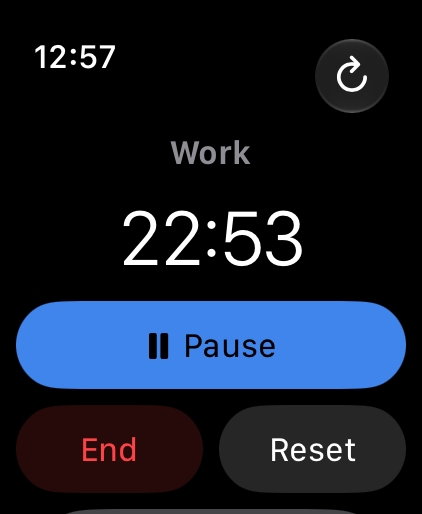
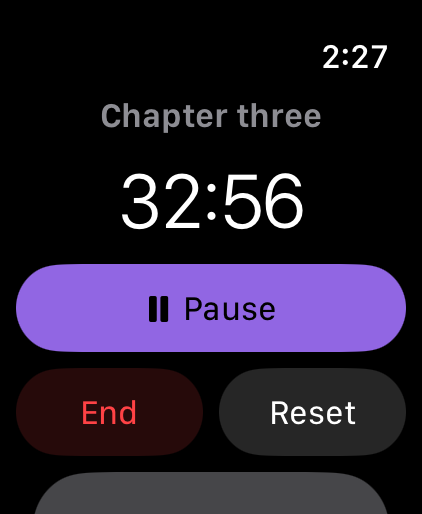
Redesign the README image in Caslon with stopwatch, Mac and Watch widget

diff --git a/docs/gallery/gallery.css b/docs/gallery/gallery.css
@@ -1,27 +1,35 @@
+:root { --serif: "Libre Caslon Text"; --serif-weight: 700; }
 * { box-sizing: border-box; }
 html, body { margin: 0; padding: 0; }
-body { font-family: "Inter", sans-serif; color: #f5f7fa; background: #080d15; -webkit-font-smoothing: antialiased; }
-.canvas { width: 1440px; height: 1100px; position: relative; overflow: hidden; background: radial-gradient(ellipse at 30% 8%, #18324b 0, transparent 57%), radial-gradient(ellipse at 95% 100%, #0a3439 0, transparent 54%), #0a1019; }
-header { position: absolute; left: 64px; right: 64px; top: 49px; display: flex; align-items: center; justify-content: space-between; }
-.brand { display: flex; align-items: center; gap: 14px; font-size: 24px; font-weight: 600; letter-spacing: -.5px; }
-.brand-mark { width: 44px; height: 44px; border-radius: 10px; box-shadow: 0 0 0 1px #ffffff24, 0 6px 16px #0006; }
-header p { color: #9cb0c7; font-size: 17px; font-weight: 500; letter-spacing: -.1px; margin: 0; }
-section { position: absolute; top: 139px; }
-.timer { left: 64px; }
-.activity { left: 506px; }
-.wrist { left: 970px; width: 345px; top: 196px; }
-h1, h2 { font-family: "Instrument Serif", serif; font-size: 36px; font-weight: 400; line-height: 1; letter-spacing: -.3px; margin: 0 0 24px; }
-em { font-style: italic; color: #b9d4f2; }
-.wrist h2 { font-size: 50px; letter-spacing: -.6px; margin-bottom: 16px; }
-.wrist p { color: #a9bed3; font-size: 20px; line-height: 1.5; letter-spacing: -.2px; margin: 0 0 30px; }
-.phone { position: relative; width: 370px; padding: 8px; background: linear-gradient(135deg, #748092, #252d39 24%, #0c1017 65%, #566175); border-radius: 53px; box-shadow: inset 0 0 0 1px #aeb8c257, 0 24px 60px #0006; }
-.phone::after { content: ""; width: 4px; height: 60px; background: linear-gradient(#566175,#1a222d); position: absolute; right: -3px; top: 151px; border-radius: 0 3px 3px 0; }
-.phone img { width: 100%; display: block; border-radius: 45px; border: 2px solid #05080c; }
-.watch { position: relative; width: 318px; padding: 10px; border-radius: 75px; background: linear-gradient(135deg, #8d9298 0, #3a3e46 12%, #12161d 42%, #313740 76%, #777e86); box-shadow: inset 0 0 0 1px #d9e2ed57, 0 22px 45px #0007; }
-.watch::before { content: ""; position: absolute; right: -12px; top: 80px; width: 15px; height: 48px; background: repeating-linear-gradient(0deg,#414752 0 2px,#727a86 2px 3px); border: 2px solid #3f4651; border-radius: 8px; }
-.watch::after { content: ""; position: absolute; right: -3px; top: 173px; width: 4px; height: 59px; border-radius: 3px; background: linear-gradient(#666f7c,#202733); }
-.watch img { display: block; position: relative; width: 100%; border-radius: 65px; border: 2px solid #030507; background: #000; }
-.live { margin-top: 30px; width: 345px; }
-.live img { display: block; width: 100%; border-radius: 26px; box-shadow: 0 0 0 1px #aeb8c240, 0 18px 40px #0007; }
-.note { color: #a9bed3; font-size: 18px; line-height: 1.55; letter-spacing: -.15px; margin-top: 28px; }
-footer { position: absolute; bottom: 42px; left: 64px; font-size: 14px; letter-spacing: .1px; color: #7d93aa; }
+body { font-family: var(--serif), serif; color: #f5f7fa; background: #080d15; -webkit-font-smoothing: antialiased; }
+.canvas { width: 1600px; height: 1100px; position: relative; overflow: hidden; background: radial-gradient(ellipse at 28% 6%, #18324b 0, transparent 55%), radial-gradient(ellipse at 96% 100%, #0a3439 0, transparent 52%), radial-gradient(ellipse at 70% 40%, #1c1736 0, transparent 45%), #0a1019; }
+header { position: absolute; left: 64px; right: 64px; top: 46px; display: flex; align-items: center; justify-content: space-between; }
+.brand { display: flex; align-items: center; gap: 12px; font-size: 15px; font-weight: 400; letter-spacing: .22em; text-transform: uppercase; color: #d9e3ef; }
+.brand-mark { width: 30px; height: 30px; border-radius: 7px; box-shadow: 0 0 0 1px #ffffff24, 0 4px 12px #0006; }
+header p { color: #8ea3bb; font-size: 13px; font-weight: 400; letter-spacing: .22em; text-transform: uppercase; margin: 0; }
+h1, h2 { font-size: 33px; font-weight: var(--serif-weight); line-height: 1; letter-spacing: -.4px; margin: 0 0 22px; }
+section { position: absolute; top: 136px; }
+.col { width: 380px; }
+.first { left: 64px; }
+.second { left: 480px; }
+.side { left: 900px; width: 636px; }
+.phone { position: relative; width: 356px; padding: 8px; background: linear-gradient(135deg, #748092, #252d39 24%, #0c1017 65%, #566175); border-radius: 52px; box-shadow: inset 0 0 0 1px #aeb8c257, 0 24px 60px #0006; }
+.phone::after { content: ""; width: 4px; height: 58px; background: linear-gradient(#566175,#1a222d); position: absolute; right: -3px; top: 146px; border-radius: 0 3px 3px 0; }
+.phone img { width: 100%; display: block; border-radius: 44px; border: 2px solid #05080c; }
+.desk { position: relative; height: 438px; border-radius: 18px; overflow: hidden; background: radial-gradient(ellipse at 80% 0%, #2a3c58 0, transparent 60%), linear-gradient(160deg, #1a2333, #0f141e 70%); box-shadow: inset 0 0 0 1px #ffffff14, 0 24px 60px #0006; }
+.menubar { font-family: -apple-system, "SF Pro Text", "Inter", sans-serif; height: 32px; display: flex; justify-content: flex-end; align-items: center; gap: 4px; padding: 0 14px; background: #0b0f17cc; backdrop-filter: blur(20px); border-bottom: 1px solid #ffffff12; font-size: 13.5px; font-weight: 500; color: #e9eef5; }
+.item { display: inline-flex; align-items: center; gap: 6px; height: 24px; padding: 0 8px; border-radius: 6px; }
+.item.active { background: #ffffff26; }
+.item svg { width: 16px; height: 16px; fill: none; stroke: #e9eef5; stroke-width: 1.4; stroke-linecap: round; }
+.item svg[viewBox="0 0 22 12"] { width: 22px; height: 12px; }
+.item svg .fill { fill: #e9eef5; stroke: none; }
+.item b { font-weight: 600; font-variant-numeric: tabular-nums; }
+.clock { padding-left: 6px; }
+.mac-panel { position: absolute; top: 40px; right: 128px; width: 340px; }
+.mac-panel img { display: block; width: 100%; border-radius: 16px; box-shadow: 0 0 0 1px #ffffff1f, 0 22px 50px #000a; }
+.wrist { margin-top: 38px; }
+.watches { display: flex; gap: 34px; }
+.watch { position: relative; width: 236px; padding: 9px; border-radius: 58px; background: linear-gradient(135deg, #8d9298 0, #3a3e46 12%, #12161d 42%, #313740 76%, #777e86); box-shadow: inset 0 0 0 1px #d9e2ed57, 0 22px 45px #0007; }
+.watch::before { content: ""; position: absolute; right: -10px; top: 62px; width: 12px; height: 40px; background: repeating-linear-gradient(0deg,#414752 0 2px,#727a86 2px 3px); border: 2px solid #3f4651; border-radius: 7px; }
+.watch img { display: block; width: 100%; border-radius: 50px; border: 2px solid #030507; background: #000; }
+footer { position: absolute; bottom: 38px; left: 64px; font-size: 16px; font-weight: 400; color: #7d93aa; }

diff --git a/docs/gallery/overview.html b/docs/gallery/overview.html
@@ -3,19 +3,35 @@
 <head>
   <meta charset="utf-8">
   <meta name="viewport" content="width=device-width,initial-scale=1">
-  <title>SimpleTimer: timer, activity and Apple Watch</title>
+  <title>SimpleTimer: iPhone, Apple Watch and Mac</title>
   <link rel="preconnect" href="https://fonts.googleapis.com">
   <link rel="preconnect" href="https://fonts.gstatic.com" crossorigin>
-  <link rel="stylesheet" href="https://fonts.googleapis.com/css2?family=Instrument+Serif:ital@0;1&family=Inter:wght@400;500;600&display=block">
+  <link rel="stylesheet" href="https://fonts.googleapis.com/css2?family=Libre+Caslon+Text:wght@400;700&display=block">
   <link rel="stylesheet" href="gallery.css">
 </head>
 <body>
 <main class="canvas">
-  <header><div class="brand"><img class="brand-mark" src="../../App/Assets.xcassets/AppIcon.appiconset/AppIcon-Dark.png" alt="">SimpleTimer</div><p>iPhone + Apple Watch</p></header>
-  <section class="timer"><h1>A little more <em>focus.</em></h1><div class="phone"><img src="../release-images/dashboard-running.png" alt="Running Work timer with a large Pause button between round End and Reset buttons"></div></section>
-  <section class="activity"><h2>A <em>clearer</em> picture.</h2><div class="phone"><img src="../release-images/activity.png" alt="Sample Activity week with 20 hours 15 minutes, 56 sessions, 91 percent completed and a 17 day streak"></div></section>
-  <section class="wrist"><h2>Within <em>reach.</em></h2><p>Control your iPhone timer from<br>your wrist or Lock Screen.</p><div class="watch"><img src="../release-images/watch.png" alt="Apple Watch Work timer with Pause, End and Reset controls"></div><div class="live"><img src="../release-images/live-activity.png" alt="Paused Work Live Activity with Resume, End and Reset controls"></div><div class="note">One timer. One history.<br>No account required.</div></section>
-  <footer>Real simulator screens · Sample data · Decorative device frames</footer>
+  <header><div class="brand"><img class="brand-mark" src="../../App/Assets.xcassets/AppIcon.appiconset/AppIcon-Dark.png" alt="">SimpleTimer</div><p>iPhone · Apple Watch · Mac</p></header>
+  <section class="col first"><h1>Time it, or let it run.</h1><div class="phone"><img src="../release-images/stopwatch.png" alt="Stopwatch mode on iPhone: a Deep Work session named Chapter three, 32 minutes in"></div></section>
+  <section class="col second"><h2>A clearer picture.</h2><div class="phone"><img src="../release-images/activity.png" alt="Sample Activity week with 20 hours 15 minutes, 56 sessions, 91 percent completed and a 17 day streak"></div></section>
+  <section class="side">
+    <h2>In your menu bar.</h2>
+    <div class="desk">
+      <div class="menubar" aria-hidden="true">
+        <span class="item active"><svg viewBox="0 0 16 16"><path d="M8 2.2a5.8 5.8 0 1 1-4.1 1.7M8 2.2v2.4M8 8 5.2 5.4"/></svg><b>18:42</b></span>
+        <span class="item"><svg viewBox="0 0 16 16"><path d="M2 6.2a8.6 8.6 0 0 1 12 0M4.2 8.6a5.4 5.4 0 0 1 7.6 0M6.4 11a2.3 2.3 0 0 1 3.2 0"/></svg></span>
+        <span class="item"><svg viewBox="0 0 22 12"><rect x="1" y="1.5" width="17" height="9" rx="2.5"/><rect class="fill" x="2.8" y="3.3" width="13.4" height="5.4" rx="1.2"/><path d="M20 4.6v2.8"/></svg></span>
+        <span class="item clock">Tue Nov 3&nbsp;&nbsp;9:26</span>
+      </div>
+      <div class="mac-panel"><img src="../release-images/mac-panel.png" alt="SimpleTimer for Mac: a drop-down under the menu bar with a running Work timer, its controls and session types"></div>
+    </div>
+    <h2 class="wrist">On your wrist.</h2>
+    <div class="watches">
+      <div class="watch"><img src="../release-images/watch.png" alt="Apple Watch stopwatch for Chapter three with Pause, End and Reset"></div>
+      <div class="watch"><img src="../release-images/watch-widget.png" alt="SimpleTimer widget in the Apple Watch Smart Stack showing a live Deep Work countdown"></div>
+    </div>
+  </section>
+  <footer>Real simulator and Mac screens · Sample data · Decorative frames and menu bar</footer>
 </main>
 </body>
 </html>

diff --git a/docs/GALLERY.md b/docs/GALLERY.md
@@ -1,15 +1,15 @@
 # SimpleTimer gallery
 
-One view of the experience: focus on iPhone, review your activity, and control the timer from Apple Watch or the Lock Screen.
+One view of the experience: time a session or let a stopwatch run on iPhone, review your week, and keep it in reach from the Mac menu bar and Apple Watch.
 
-![Timer, Activity, Apple Watch and Live Activity](release-images/overview.jpg)
+![Stopwatch, Activity, Mac menu bar and Apple Watch](release-images/overview.jpg)
 
-Open a full-resolution screen: [Timer](release-images/dashboard-running.png) · [Activity](release-images/activity.png) · [Apple Watch](release-images/watch.png) · [Live Activity](release-images/live-activity.png).
+Open a full-resolution screen: [Stopwatch](release-images/stopwatch.png) · [Timer](release-images/dashboard-running.png) · [Activity](release-images/activity.png) · [Mac menu bar](release-images/mac-panel.png) · [Apple Watch](release-images/watch.png) · [Watch widget](release-images/watch-widget.png) · [Live Activity](release-images/live-activity.png).
 
-These are real app screens from paired simulators in dark mode. The Activity example uses 110 synthetic sessions: two complete weeks plus the two days before capture, which keeps the streak going. The featured complete week contains 56 sessions, 20h 15m tracked, 91% completed and a 17 day streak. The Live Activity is shown paused because the simulator hides running seconds on the Lock Screen. The device frames are decorative; no personal device screens or history are used.
+These are real app screens in dark mode: iPhone and Apple Watch from paired simulators, and the Mac drop-down from the Mac app. The Activity example uses 110 synthetic sessions: two complete weeks plus the two days before capture, which keeps the streak going. The featured complete week contains 56 sessions, 20h 15m tracked, 91% completed and a 17 day streak. The stopwatch is a synthetic "Chapter three" session. The Live Activity is shown paused because the simulator hides running seconds on the Lock Screen. The device frames and the menu bar strip are decorative; no personal device screens or history are used.
 
 ## Updating the gallery
 
-The [layout](gallery/overview.html) and [styles](gallery/gallery.css) place the original screenshots without redrawing the interface. Headlines use Instrument Serif and other text uses Inter, both loaded from Google Fonts, and the header uses the app icon, so capture with network access. Serve this repository locally, open the layout at a 1440 × 1100 viewport and capture it to `release-images/overview.jpg`.
+The [layout](gallery/overview.html) and [styles](gallery/gallery.css) place the original screenshots without redrawing the interface. All text uses Libre Caslon Text, loaded from Google Fonts: bold for headlines, regular spaced capitals for the small masthead and tagline. The masthead uses the app icon, so capture with network access. Serve this repository locally, open the layout at a 1600 × 1100 viewport and capture it to `release-images/overview.jpg`.
 
 Capture current controls, use a populated complete week for Activity, and check every image at full size. Strip image metadata before publishing. Keep private captures, timer backups, signing files and device identifiers out of this folder.

diff --git a/README.md b/README.md
@@ -4,9 +4,9 @@ A time tracker and focus app for iPhone, built to understand how you work. Optio
 
 Pick a session. Start when you're ready. Nothing starts automatically.
 
-![SimpleTimer: a running timer, a complete week of Activity, Apple Watch and Lock Screen controls](docs/release-images/overview.jpg)
+![SimpleTimer: a named stopwatch on iPhone, a complete week of Activity, the Mac menu bar drop-down, and the Apple Watch app and widget](docs/release-images/overview.jpg)
 
-[View full-size screens](docs/GALLERY.md) · Simulator screens with sample data.
+[View full-size screens](docs/GALLERY.md) · Real app screens with sample data.
 
 ## What it does
 
